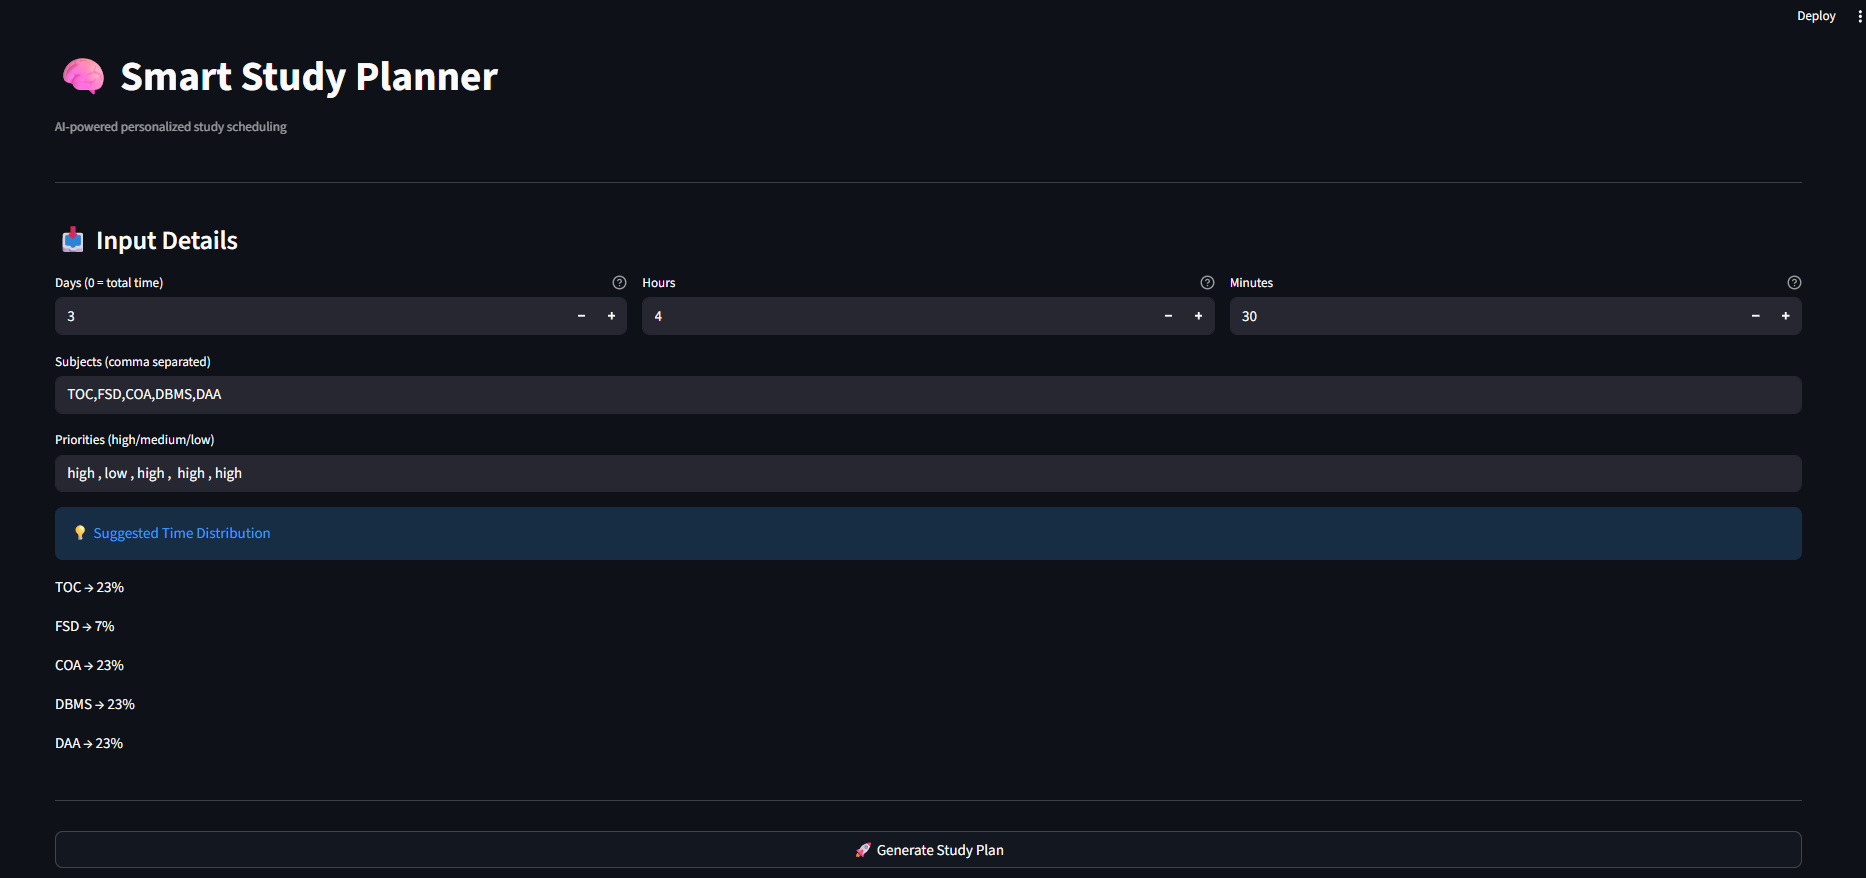
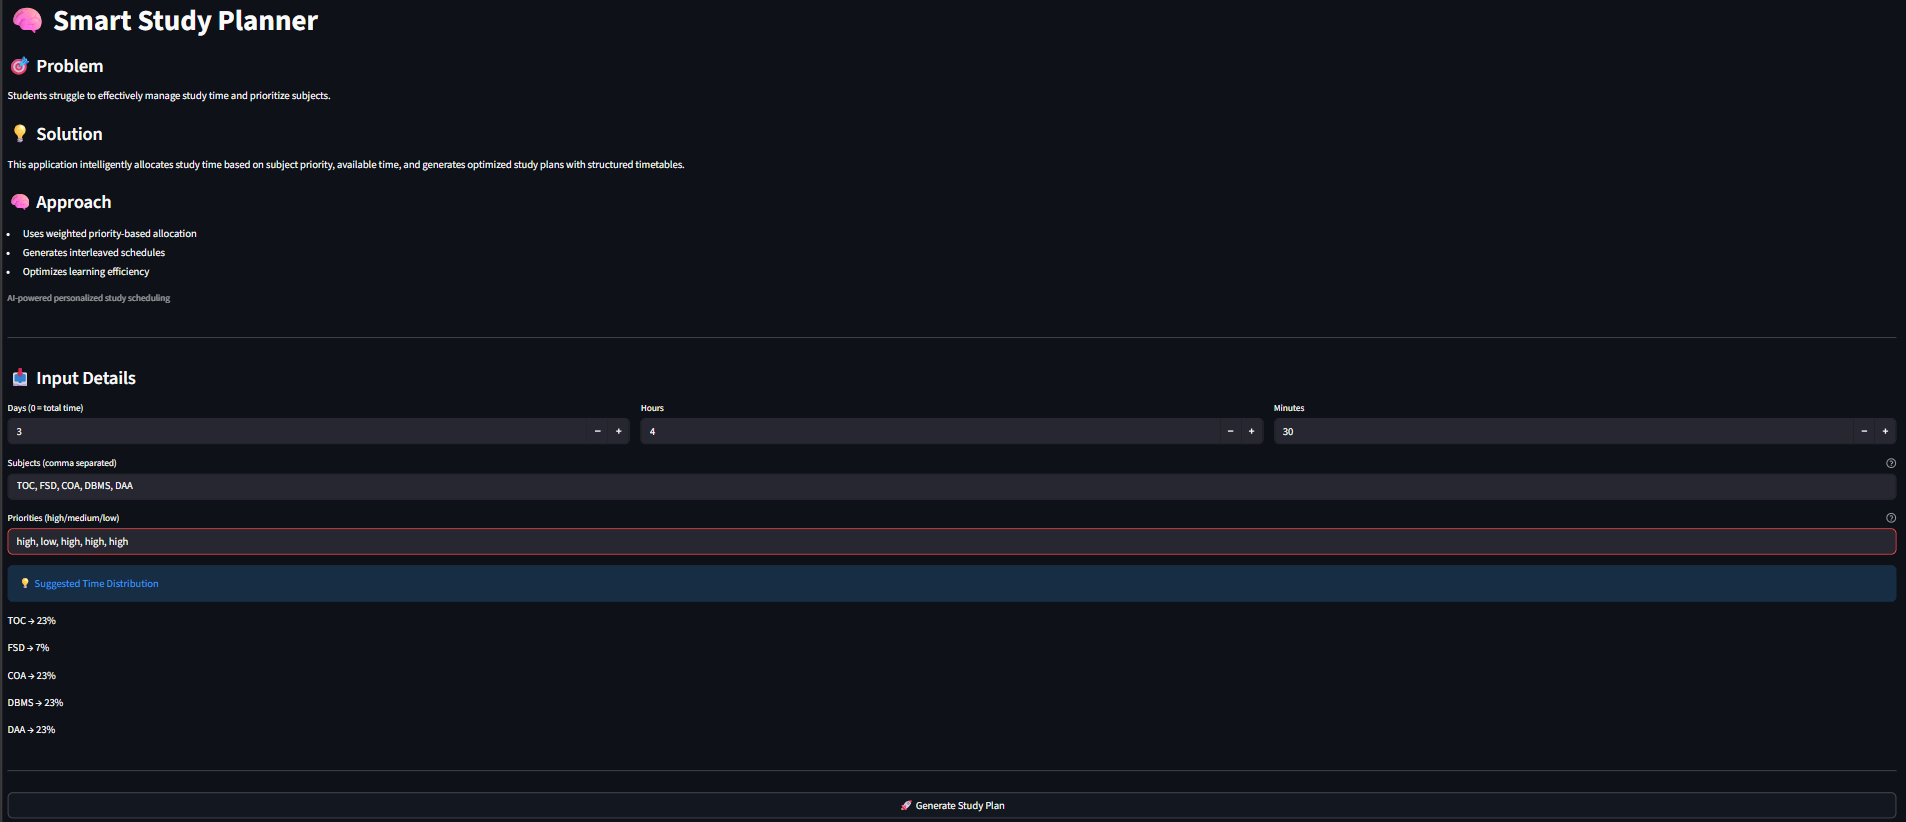
made changes in code

diff --git a/app_streamlit.py b/app_streamlit.py
@@ -4,19 +4,23 @@ from scheduler import generate_schedule
 from calendar_integration import create_events
 from fpdf import FPDF
 
-# 📄PDF GENERATION
+st.set_page_config(
+    page_title="Accessible Smart Study Planner",
+    page_icon="🧠",
+    layout="wide"
+)
 
+
+# 📄 PDF GENERATION
 def generate_pdf(result):
     pdf = FPDF()
     pdf.add_page()
     pdf.set_font("Arial", size=10)
 
-    # Title
     pdf.set_font("Arial", 'B', 14)
     pdf.cell(200, 10, "Smart Study Timetable", ln=True, align='C')
     pdf.ln(5)
 
-    # Table Header
     pdf.set_font("Arial", 'B', 10)
     pdf.cell(30, 10, "Day", 1)
     pdf.cell(40, 10, "Start", 1)
@@ -24,24 +28,18 @@ def generate_pdf(result):
     pdf.cell(60, 10, "Subject", 1)
     pdf.ln()
 
-    # Table Data (🔥 TIME SLOTS)
     pdf.set_font("Arial", size=10)
 
     for slot in result["time_slots"]:
         day = f"Day {slot.get('day', '-')}"
-        start = slot["start"]
-        end = slot["end"]
-        subject = slot["subject"]
-
         pdf.cell(30, 10, day, 1)
-        pdf.cell(40, 10, start, 1)
-        pdf.cell(40, 10, end, 1)
-        pdf.cell(60, 10, subject, 1)
+        pdf.cell(40, 10, slot["start"], 1)
+        pdf.cell(40, 10, slot["end"], 1)
+        pdf.cell(60, 10, slot["subject"], 1)
         pdf.ln()
 
     pdf.ln(5)
 
-    # Summary Section
     pdf.set_font("Arial", 'B', 12)
     pdf.cell(200, 10, "Summary", ln=True)
 
@@ -57,51 +55,54 @@ def generate_pdf(result):
 
 
 # ⚙ PAGE CONFIG
-st.set_page_config(page_title="Smart Study Planner", page_icon="🧠", layout="wide")
+
 
 st.title("🧠 Smart Study Planner")
+
+# 🎯 PROBLEM ALIGNMENT
+st.markdown("""
+### 🎯 Problem
+Students struggle to effectively manage study time and prioritize subjects.
+
+### 💡 Solution
+This application intelligently allocates study time based on subject priority,
+available time, and generates optimized study plans with structured timetables.
+
+### 🧠 Approach
+- Uses weighted priority-based allocation
+- Generates interleaved schedules
+- Optimizes learning efficiency
+""")
+
 st.caption("AI-powered personalized study scheduling")
+
+
 
 st.divider()
 
 # 📥 INPUT SECTION
-
 st.subheader("📥 Input Details")
 
 col1, col2, col3 = st.columns(3)
 
 with col1:
-    days = st.number_input(
-        "Days (0 = total time)",
-        min_value=0,
-        value=0,
-        help="Set 0 if you want total time planning"
-    )
+    days = st.number_input("Days (0 = total time)", min_value=0, value=0)
 
 with col2:
-    hours = st.number_input(
-        "Hours",
-        min_value=0,
-        value=0,  # ✅ FIXED (was 4 before)
-        help="Hours per day if days > 0"
-    )
+    hours = st.number_input("Hours", min_value=0, value=0)
 
 with col3:
-    minutes = st.number_input(
-        "Minutes",
-        min_value=0,
-        value=0,
-        help="Extra minutes"
-    )
+    minutes = st.number_input("Minutes", min_value=0, value=0)
 
 subjects_input = st.text_input(
     "Subjects (comma separated)",
-    placeholder="TOC, DBMS, FSD"
+    placeholder="TOC, DBMS, FSD",
+    help="Enter subjects separated by commas"
 )
-
 priority_input = st.text_input(
     "Priorities (high/medium/low)",
-    placeholder="high, medium, low"
+    placeholder="high, medium, low",
+    help="Enter priority for each subject"
 )
 
 # 💡 SUGGESTION ENGINE
@@ -124,16 +125,27 @@ st.divider()
 # 🚀 GENERATE PLAN
 if st.button("🚀 Generate Study Plan", use_container_width=True):
 
-    if not subjects_input or not priority_input:
-        st.error("Enter subjects and priorities")
+    # 🔒 VALIDATION
+    if not subjects_input.strip():
+        st.error("⚠ Subjects cannot be empty")
+        st.stop()
+
+    if not priority_input.strip():
+        st.error("⚠ Priorities cannot be empty")
         st.stop()
 
     subjects = [s.strip().upper() for s in subjects_input.split(",")]
     priorities_list = [p.strip().lower() for p in priority_input.split(",")]
 
     if len(subjects) != len(priorities_list):
-        st.error("Subjects and priorities must match")
+        st.error("⚠ Subjects and priorities must match")
         st.stop()
+
+    valid_priorities = {"high", "medium", "low"}
+    for p in priorities_list:
+        if p not in valid_priorities:
+            st.error("⚠ Priority must be high, medium, or low")
+            st.stop()
 
     priorities = {subjects[i]: priorities_list[i] for i in range(len(subjects))}
 
@@ -145,21 +157,25 @@ if st.button("🚀 Generate Study Plan", use_container_width=True):
         hours_per_day = hours
 
     if total_minutes <= 0:
-        st.error("Time must be greater than 0")
+        st.error("⚠ Time must be greater than 0")
         st.stop()
 
     total_hours = total_minutes / 60
 
-    result = generate_schedule(
-        total_hours=total_hours,
-        subjects=subjects,
-        priorities=priorities,
-        days=days,
-        hours_per_day=hours_per_day
-    )
+    try:
+        result = generate_schedule(
+            total_hours=total_hours,
+            subjects=subjects,
+            priorities=priorities,
+            days=days,
+            hours_per_day=hours_per_day
+        )
 
-    st.session_state["result"] = result
-    st.success("✅ Plan Generated!")
+        st.session_state["result"] = result
+        st.success("✅ Plan Generated!")
+    except Exception as e:
+        st.error(f"❌ Error generating schedule: {str(e)}")
+        st.stop()
 
 # 📊 OUTPUT SECTION
 if "result" in st.session_state:
@@ -169,26 +185,19 @@ if "result" in st.session_state:
     st.subheader("📊 Overview")
 
     col1, col2, col3 = st.columns(3)
-
     col1.metric("Break Time", f"{result['break_time']} mins")
     col2.metric("Revision Time", f"{result['revision_time']} mins")
     col3.metric("Efficiency", f"{result['score']}%")
 
     st.divider()
 
-    # 🎨 CARD UI
+    # 📅 STUDY PLAN
     st.subheader("📅 Study Plan")
 
     for sub, mins in result["study_plan"].items():
         st.markdown(
             f"""
-            <div style="
-                padding:15px;
-                margin:10px 0;
-                border-radius:10px;
-                background:#111827;
-                border:1px solid #374151;
-            ">
+            <div style="padding:15px;margin:10px 0;border-radius:10px;background:#111827;border:1px solid #374151;">
                 <h4 style="color:#60a5fa;">{sub}</h4>
                 <p style="color:white;">⏱ {mins} mins</p>
             </div>
@@ -196,7 +205,7 @@ if "result" in st.session_state:
             unsafe_allow_html=True
         )
 
-    # 📊 TABLE TIMETABLE
+    # 📊 TIMETABLE
     st.subheader("📊 Timetable")
 
     table_data = []
@@ -208,24 +217,27 @@ if "result" in st.session_state:
                 "Start": slot["start"],
                 "End": slot["end"],
                 "Subject": slot["subject"]
-        })
-    else:
-        table_data.append({
-            "Day": "-",
-            "Start": slot["start"],
-            "End": slot["end"],
-            "Subject": slot["subject"]
-        })
-    df = pd.DataFrame(table_data)
+            })
+        else:
+            table_data.append({
+                "Day": "-",
+                "Start": slot["start"],
+                "End": slot["end"],
+                "Subject": slot["subject"]
+            })
 
-    st.dataframe(df, use_container_width=True)
+    df = pd.DataFrame(table_data)
+    st.dataframe(df, use_container_width=True, hide_index=True)
 
     st.divider()
 
     # 📅 GOOGLE CALENDAR
     if st.button("📅 Add to Google Calendar"):
-        create_events(result["study_plan"])
-        st.success("Added to Calendar!")
+        try:
+            create_events(result["study_plan"])
+            st.success("✅ Added to Google Calendar!")
+        except Exception as e:
+            st.error(f"❌ Calendar Error: {str(e)}")
 
     # 📄 PDF DOWNLOAD
     if st.button("📄 Generate PDF"):

diff --git a/scheduler.py b/scheduler.py
@@ -1,19 +1,26 @@
 from datetime import datetime, timedelta
+import logging
+
+# 🔧 Logging configuration
+logging.basicConfig(level=logging.INFO)
 
 
 # ⏰ FAST + INTERLEAVED TIME SLOT GENERATION
 def generate_time_slots(schedule, days, hours_per_day, start_time="09:00"):
+    logging.info("Generating time slots...")
+
     slots = []
 
-    STUDY_BLOCK = 90   # 🔥 increased for performance
+    STUDY_BLOCK = 90
     BREAK_BLOCK = 10
+    MIN_BLOCK = 30   # 🔥 Minimum useful study duration
 
     subjects = list(schedule.keys())
     remaining = schedule.copy()
 
     total_remaining = sum(remaining.values())
 
-    # 🔥 CONTINUOUS MODE (days = 0)
+    # 🔥 CONTINUOUS MODE
     if days == 0 or hours_per_day is None:
         current = datetime.strptime(start_time, "%H:%M")
 
@@ -23,6 +30,9 @@ def generate_time_slots(schedule, days, hours_per_day, start_time="09:00"):
                     continue
 
                 chunk = min(STUDY_BLOCK, remaining[sub])
+                chunk = max(chunk, MIN_BLOCK)
+
+                logging.debug(f"{sub} → {chunk} mins")
 
                 end = current + timedelta(minutes=chunk)
 
@@ -42,7 +52,7 @@ def generate_time_slots(schedule, days, hours_per_day, start_time="09:00"):
 
         return slots
 
-    # 🔥 DAY-BASED MODE (INTERLEAVED)
+    # 🔥 DAY-BASED MODE
     for day in range(1, days + 1):
         current = datetime.strptime(start_time, "%H:%M")
         daily_limit = hours_per_day * 60
@@ -57,10 +67,15 @@ def generate_time_slots(schedule, days, hours_per_day, start_time="09:00"):
 
                 if used + chunk > daily_limit:
                     chunk = daily_limit - used
-                
+
+                if chunk > 0:
+                    chunk = max(chunk, MIN_BLOCK)
+
                 if chunk <= 0:
                     used = daily_limit
                     break
+
+                logging.debug(f"Day {day}: {sub} → {chunk} mins")
 
                 end = current + timedelta(minutes=chunk)
 
@@ -142,6 +157,8 @@ def split_across_days(schedule, days):
 
 # 🚀 MAIN SCHEDULER
 def generate_schedule(total_hours, subjects, priorities, days=0, hours_per_day=None):
+    logging.info(f"Generating schedule for subjects: {subjects}")
+
     total_minutes = int(total_hours * 60)
 
     weight_map = {"high": 3, "medium": 2, "low": 1}

diff --git a/tests/test_scheduler.py b/tests/test_scheduler.py
@@ -1,0 +1,32 @@
+from scheduler import generate_schedule
+import sys
+import os
+
+sys.path.append(os.path.abspath(os.path.join(os.path.dirname(__file__), "..")))
+
+
+def test_schedule_output():
+    result = generate_schedule(
+        total_hours=4,
+        subjects=["TOC", "DBMS"],
+        priorities={"TOC": "high", "DBMS": "low"},
+        days=2,
+        hours_per_day=2
+    )
+
+    assert isinstance(result, dict)
+    assert "study_plan" in result
+    assert "time_slots" in result
+    assert len(result["study_plan"]) == 2
+
+
+def test_time_distribution():
+    result = generate_schedule(
+        total_hours=2,
+        subjects=["A", "B"],
+        priorities={"A": "high", "B": "low"},
+        days=1,
+        hours_per_day=2
+    )
+
+    assert result["study_plan"]["A"] >= result["study_plan"]["B"]

diff --git a/README.md b/README.md
@@ -1,3 +1,7 @@
+![Python](https://img.shields.io/badge/Python-3.10-blue)
+![Streamlit](https://img.shields.io/badge/Streamlit-App-red)
+![Status](https://img.shields.io/badge/Status-Active-green)
+
 # 🧠 Smart Study Planner Assistant
 
 🚀 Built with Streamlit + Google Calendar API + Intelligent Scheduling Logic  
